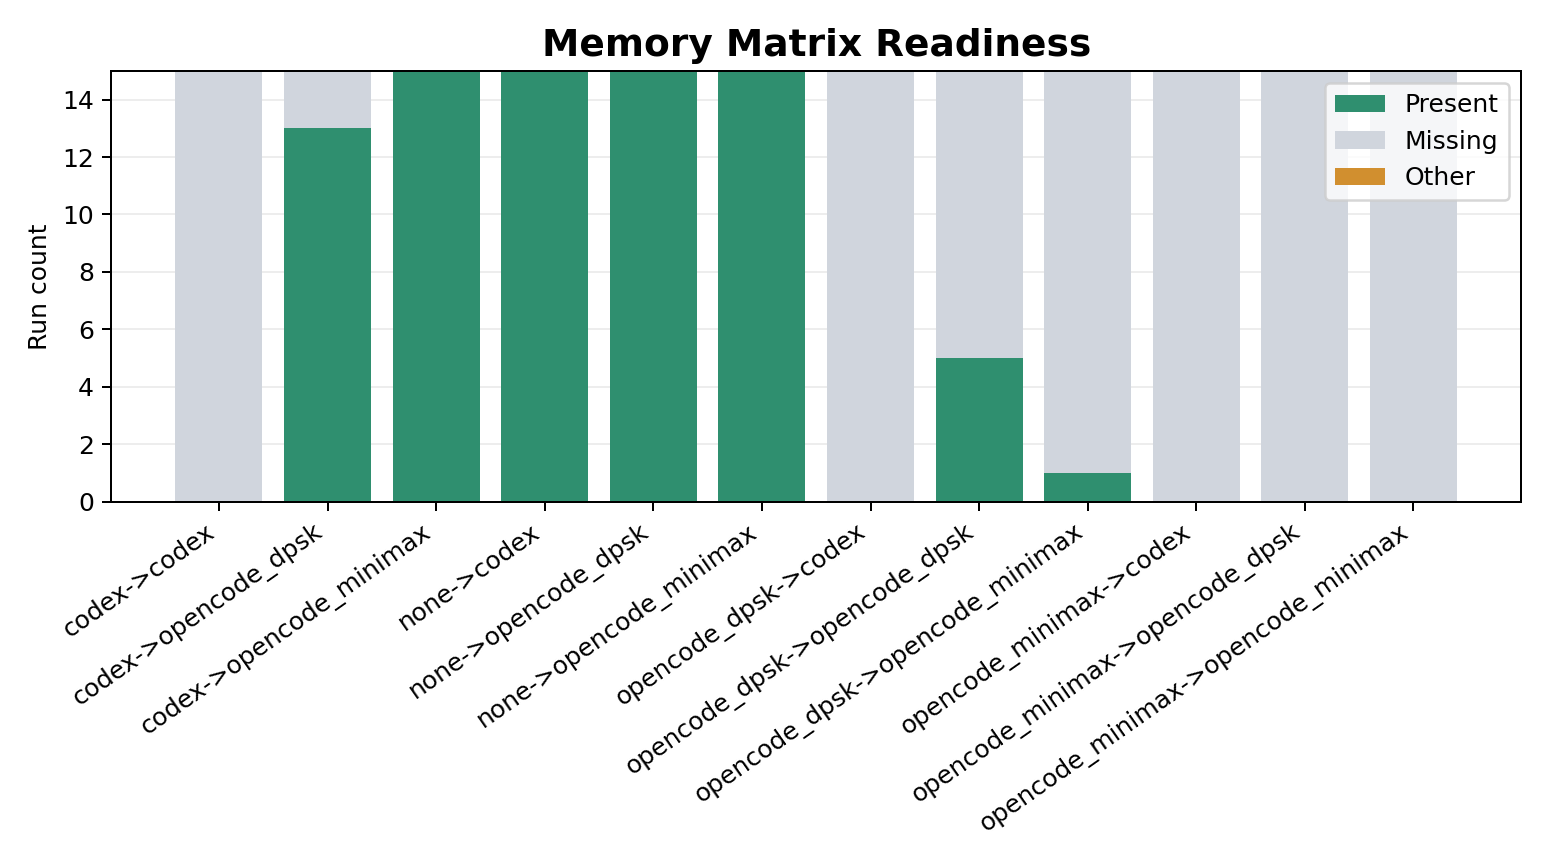
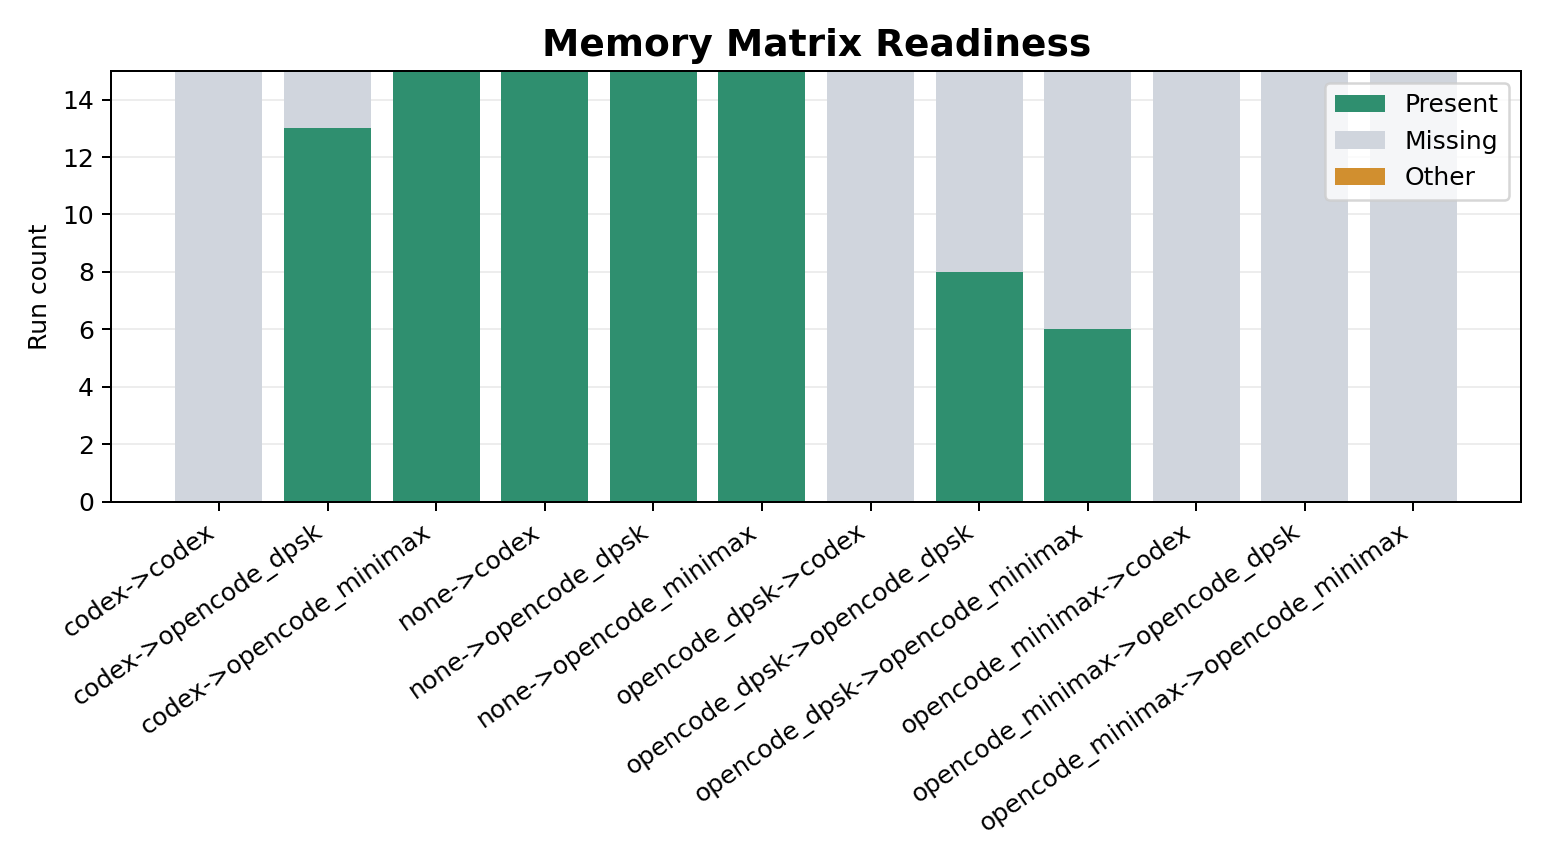
Polish space science final

Changed region(s): [[0.5891, 0.3125, 0.7442, 0.5625]]

diff --git a/experiments/skill_injection/reports/relay_constellation.md b/experiments/skill_injection/reports/relay_constellation.md
@@ -16,7 +16,7 @@ Generated from the current `skill_injection` aggregate artifacts.
 | --- | ---: | ---: | ---: | ---: | ---: | ---: | ---: | ---: | ---: | ---: | ---: |
 | compact_domain | 10 | 9 | 9 | 0.9000 | 0.3545 | 0.1328 | 2.5000 | 133.5 | 166.3 | 20.94 | missing_artifact: 1, success: 9 |
 | no_skill | 10 | 10 | 9 | 0.9000 | 0.2797 | 0.1800 | 6.9000 | 143.7 | 269.8 | 17.83 | success: 9, verifier_invalid: 1 |
-| skill_pack | 10 | 9 | 8 | 0.8000 | 0.2529 | 0.0981 | 5.2000 | 132.2 | 202.4 | 14.99 | agent_failed: 1, missing_artifact: 1, success: 8 |
+| skill_pack | 10 | 10 | 8 | 0.8000 | 0.2529 | 0.0981 | 5.2000 | 132.2 | 202.4 | 14.99 | agent_failed: 2, success: 8 |
 
 ## Condition And Harness Summary
 
@@ -26,7 +26,7 @@ Generated from the current `skill_injection` aggregate artifacts.
 | compact_domain | opencode_minimax | 5 | 5 | 5 | 1.0000 | 0.1244 | 0.0000 | 1.2000 | 142.0 | 153.9 | 6.5313 | success: 5 |
 | no_skill | opencode_dpsk | 5 | 5 | 5 | 1.0000 | 0.5594 | 0.3600 | 8.4000 | 134.5 | 251.1 | 35.67 | success: 5 |
 | no_skill | opencode_minimax | 5 | 5 | 4 | 0.8000 | 0.0000 | 0.0000 | 5.0000 | - | - | 0.0000 | success: 4, verifier_invalid: 1 |
-| skill_pack | opencode_dpsk | 5 | 4 | 3 | 0.6000 | 0.3316 | 0.1850 | 7.6000 | 135.3 | 208.9 | 20.65 | agent_failed: 1, missing_artifact: 1, success: 3 |
+| skill_pack | opencode_dpsk | 5 | 5 | 3 | 0.6000 | 0.3316 | 0.1850 | 7.6000 | 135.3 | 208.9 | 20.65 | agent_failed: 2, success: 3 |
 | skill_pack | opencode_minimax | 5 | 5 | 5 | 1.0000 | 0.1743 | 0.0111 | 2.8000 | 119.3 | 158.5 | 9.3431 | success: 5 |
 
 ## Cases
@@ -53,8 +53,8 @@ Generated from the current `skill_injection` aggregate artifacts.
 | no_skill | opencode_minimax | test | case_0003 | present | success | valid | true | 3290.8 | 0 | 0 | 0 | 8 | - | - | 0 |
 | no_skill | opencode_minimax | test | case_0004 | present | verifier_invalid | invalid | false | 3532.6 | 0 | 0 | 0 | 8 | - | - | 0 |
 | no_skill | opencode_minimax | test | case_0005 | present | success | valid | true | 2330.2 | 0 | 0 | 0 | 1 | - | - | 0 |
-| skill_pack | opencode_dpsk | test | case_0001 | present | agent_failed | error | false | 1134.8 | 3 | - | - | - | - | - | 0 |
-| skill_pack | opencode_dpsk | test | case_0002 | missing_artifact | missing_artifact | missing_artifact | - | - | 3 | - | - | - | - | - | 0 |
+| skill_pack | opencode_dpsk | test | case_0001 | present | agent_failed | no_solution | false | 0.2540 | 3 | - | - | - | - | - | 0 |
+| skill_pack | opencode_dpsk | test | case_0002 | present | agent_failed | no_solution | false | 0.2510 | 3 | - | - | - | - | - | 0 |
 | skill_pack | opencode_dpsk | test | case_0003 | present | success | valid | true | 7110.4 | 3 | 0.5556 | 0.2500 | 0 | 122.1 | 164.0 | 33.54 |
 | skill_pack | opencode_dpsk | test | case_0004 | present | success | valid | true | 8750.2 | 3 | 0.3111 | 0 | 8 | 116.9 | 165.3 | 16.33 |
 | skill_pack | opencode_dpsk | test | case_0005 | present | success | valid | true | 7356.8 | 3 | 0.7913 | 0.6750 | 10 | 145.8 | 238.4 | 53.35 |

diff --git a/experiments/memory_accumulation/reports/regional_coverage.md b/experiments/memory_accumulation/reports/regional_coverage.md
@@ -15,8 +15,8 @@ Generated from the current `memory_accumulation` aggregate artifacts.
 | none | opencode_dpsk | 5 | 5 | 0 | 5 | 35.79 | success: 5 |
 | none | opencode_minimax | 5 | 5 | 0 | 5 | 17.73 | success: 5 |
 | opencode_dpsk | codex | 5 | 0 | 5 | 0 | 0.0000 | missing_artifact: 5 |
-| opencode_dpsk | opencode_dpsk | 5 | 0 | 5 | 0 | 0.0000 | missing_artifact: 5 |
-| opencode_dpsk | opencode_minimax | 5 | 0 | 5 | 0 | 0.0000 | missing_artifact: 5 |
+| opencode_dpsk | opencode_dpsk | 5 | 3 | 2 | 0 | 0.0000 | agent_failed: 3, missing_artifact: 2 |
+| opencode_dpsk | opencode_minimax | 5 | 1 | 4 | 0 | 0.0000 | agent_failed: 1, missing_artifact: 4 |
 | opencode_minimax | codex | 5 | 0 | 5 | 0 | 0.0000 | missing_artifact: 5 |
 | opencode_minimax | opencode_dpsk | 5 | 0 | 5 | 0 | 0.0000 | missing_artifact: 5 |
 | opencode_minimax | opencode_minimax | 5 | 0 | 5 | 0 | 0.0000 | missing_artifact: 5 |
@@ -62,10 +62,10 @@ Generated from the current `memory_accumulation` aggregate artifacts.
 | opencode_dpsk | codex | test | case_0005 | missing_artifact | missing_artifact | missing_artifact | - | - | 0 | - | - | - | - |
 | opencode_dpsk | opencode_dpsk | test | case_0001 | missing_artifact | missing_artifact | missing_artifact | - | - | 0 | - | - | - | - |
 | opencode_dpsk | opencode_dpsk | test | case_0002 | missing_artifact | missing_artifact | missing_artifact | - | - | 0 | - | - | - | - |
-| opencode_dpsk | opencode_dpsk | test | case_0003 | missing_artifact | missing_artifact | missing_artifact | - | - | 0 | - | - | - | - |
-| opencode_dpsk | opencode_dpsk | test | case_0004 | missing_artifact | missing_artifact | missing_artifact | - | - | 0 | - | - | - | - |
-| opencode_dpsk | opencode_dpsk | test | case_0005 | missing_artifact | missing_artifact | missing_artifact | - | - | 0 | - | - | - | - |
-| opencode_dpsk | opencode_minimax | test | case_0001 | missing_artifact | missing_artifact | missing_artifact | - | - | 0 | - | - | - | - |
+| opencode_dpsk | opencode_dpsk | test | case_0003 | present | agent_failed | no_solution | false | 0.2910 | 0 | - | - | - | - |
+| opencode_dpsk | opencode_dpsk | test | case_0004 | present | agent_failed | no_solution | false | 0.2780 | 0 | - | - | - | - |
+| opencode_dpsk | opencode_dpsk | test | case_0005 | present | agent_failed | no_solution | false | 0.0940 | 0 | - | - | - | - |
+| opencode_dpsk | opencode_minimax | test | case_0001 | present | agent_failed | no_solution | false | 0.0930 | 0 | - | - | - | - |
 | opencode_dpsk | opencode_minimax | test | case_0002 | missing_artifact | missing_artifact | missing_artifact | - | - | 0 | - | - | - | - |
 | opencode_dpsk | opencode_minimax | test | case_0003 | missing_artifact | missing_artifact | missing_artifact | - | - | 0 | - | - | - | - |
 | opencode_dpsk | opencode_minimax | test | case_0004 | missing_artifact | missing_artifact | missing_artifact | - | - | 0 | - | - | - | - |

diff --git a/experiments/memory_accumulation/reports/satnet.md b/experiments/memory_accumulation/reports/satnet.md
@@ -16,7 +16,7 @@ Generated from the current `memory_accumulation` aggregate artifacts.
 | none | opencode_minimax | 5 | 5 | 0 | 4 | 37.54 | success: 4, verifier_invalid: 1 |
 | opencode_dpsk | codex | 5 | 0 | 5 | 0 | 0.0000 | missing_artifact: 5 |
 | opencode_dpsk | opencode_dpsk | 5 | 5 | 0 | 5 | 65.97 | success: 5 |
-| opencode_dpsk | opencode_minimax | 5 | 1 | 4 | 0 | 0.0000 | missing_artifact: 4, verifier_invalid: 1 |
+| opencode_dpsk | opencode_minimax | 5 | 5 | 0 | 0 | 0.0000 | no_solution: 4, verifier_invalid: 1 |
 | opencode_minimax | codex | 5 | 0 | 5 | 0 | 0.0000 | missing_artifact: 5 |
 | opencode_minimax | opencode_dpsk | 5 | 0 | 5 | 0 | 0.0000 | missing_artifact: 5 |
 | opencode_minimax | opencode_minimax | 5 | 0 | 5 | 0 | 0.0000 | missing_artifact: 5 |
@@ -66,10 +66,10 @@ Generated from the current `memory_accumulation` aggregate artifacts.
 | opencode_dpsk | opencode_dpsk | test | W40_2018 | present | success | valid | true | 3796.7 | 62.02 | 1094.6 | 186 | 0.3384 | 0.5038 | 241 |
 | opencode_dpsk | opencode_dpsk | test | W50_2018 | present | success | valid | true | 2229.7 | 60.23 | 892.8 | 186 | 0.2922 | 0.7143 | 202 |
 | opencode_dpsk | opencode_minimax | test | W10_2018 | present | verifier_invalid | invalid | false | 1257.5 | 0 | 662.9 | 177 | 0.3990 | 1 | 177 |
-| opencode_dpsk | opencode_minimax | test | W20_2018 | missing_artifact | missing_artifact | missing_artifact | - | - | 0 | - | - | - | - | - |
-| opencode_dpsk | opencode_minimax | test | W30_2018 | missing_artifact | missing_artifact | missing_artifact | - | - | 0 | - | - | - | - | - |
-| opencode_dpsk | opencode_minimax | test | W40_2018 | missing_artifact | missing_artifact | missing_artifact | - | - | 0 | - | - | - | - | - |
-| opencode_dpsk | opencode_minimax | test | W50_2018 | missing_artifact | missing_artifact | missing_artifact | - | - | 0 | - | - | - | - | - |
+| opencode_dpsk | opencode_minimax | test | W20_2018 | present | no_solution | no_solution | false | 515.8 | 0 | - | - | - | - | - |
+| opencode_dpsk | opencode_minimax | test | W30_2018 | present | no_solution | no_solution | false | 746.8 | 0 | - | - | - | - | - |
+| opencode_dpsk | opencode_minimax | test | W40_2018 | present | no_solution | no_solution | false | 503.9 | 0 | - | - | - | - | - |
+| opencode_dpsk | opencode_minimax | test | W50_2018 | present | no_solution | no_solution | false | 604.9 | 0 | - | - | - | - | - |
 | opencode_minimax | codex | test | W10_2018 | missing_artifact | missing_artifact | missing_artifact | - | - | 0 | - | - | - | - | - |
 | opencode_minimax | codex | test | W20_2018 | missing_artifact | missing_artifact | missing_artifact | - | - | 0 | - | - | - | - | - |
 | opencode_minimax | codex | test | W30_2018 | missing_artifact | missing_artifact | missing_artifact | - | - | 0 | - | - | - | - | - |

diff --git a/experiments/memory_accumulation/reports/overview.md b/experiments/memory_accumulation/reports/overview.md
@@ -23,8 +23,8 @@ Generated from the current `memory_accumulation` aggregate artifacts.
 | none | opencode_dpsk | 15 | 15 | 0 | 15 | 43.90 | success: 15 |
 | none | opencode_minimax | 15 | 15 | 0 | 13 | 18.42 | success: 13, verifier_invalid: 2 |
 | opencode_dpsk | codex | 15 | 0 | 15 | 0 | 0.0000 | missing_artifact: 15 |
-| opencode_dpsk | opencode_dpsk | 15 | 5 | 10 | 5 | 21.99 | missing_artifact: 10, success: 5 |
-| opencode_dpsk | opencode_minimax | 15 | 1 | 14 | 0 | 0.0000 | missing_artifact: 14, verifier_invalid: 1 |
+| opencode_dpsk | opencode_dpsk | 15 | 8 | 7 | 5 | 21.99 | agent_failed: 3, missing_artifact: 7, success: 5 |
+| opencode_dpsk | opencode_minimax | 15 | 6 | 9 | 0 | 0.0000 | agent_failed: 1, missing_artifact: 9, no_solution: 4, verifier_invalid: 1 |
 | opencode_minimax | codex | 15 | 0 | 15 | 0 | 0.0000 | missing_artifact: 15 |
 | opencode_minimax | opencode_dpsk | 15 | 0 | 15 | 0 | 0.0000 | missing_artifact: 15 |
 | opencode_minimax | opencode_minimax | 15 | 0 | 15 | 0 | 0.0000 | missing_artifact: 15 |
@@ -43,7 +43,9 @@ Generated from the current `memory_accumulation` aggregate artifacts.
 
 | Benchmark | Memory Source | Harness | Pairs | No-Memory Mean | Memory Mean | Delta | Improved | Regressed |
 | --- | --- | --- | ---: | ---: | ---: | ---: | ---: | ---: |
-| satnet | opencode_dpsk | opencode_minimax | 1 | 55.81 | 0.0000 | -55.81 | 0 | 1 |
+| satnet | opencode_dpsk | opencode_minimax | 5 | 37.54 | 0.0000 | -37.54 | 0 | 4 |
+| regional_coverage | opencode_dpsk | opencode_dpsk | 3 | 31.08 | 0.0000 | -31.08 | 0 | 3 |
+| regional_coverage | opencode_dpsk | opencode_minimax | 1 | 23.21 | 0.0000 | -23.21 | 0 | 1 |
 | satnet | codex | opencode_minimax | 5 | 37.54 | 32.46 | -5.0753 | 1 | 4 |
 | satnet | codex | opencode_dpsk | 3 | 65.32 | 64.58 | -0.7386 | 1 | 2 |
 
